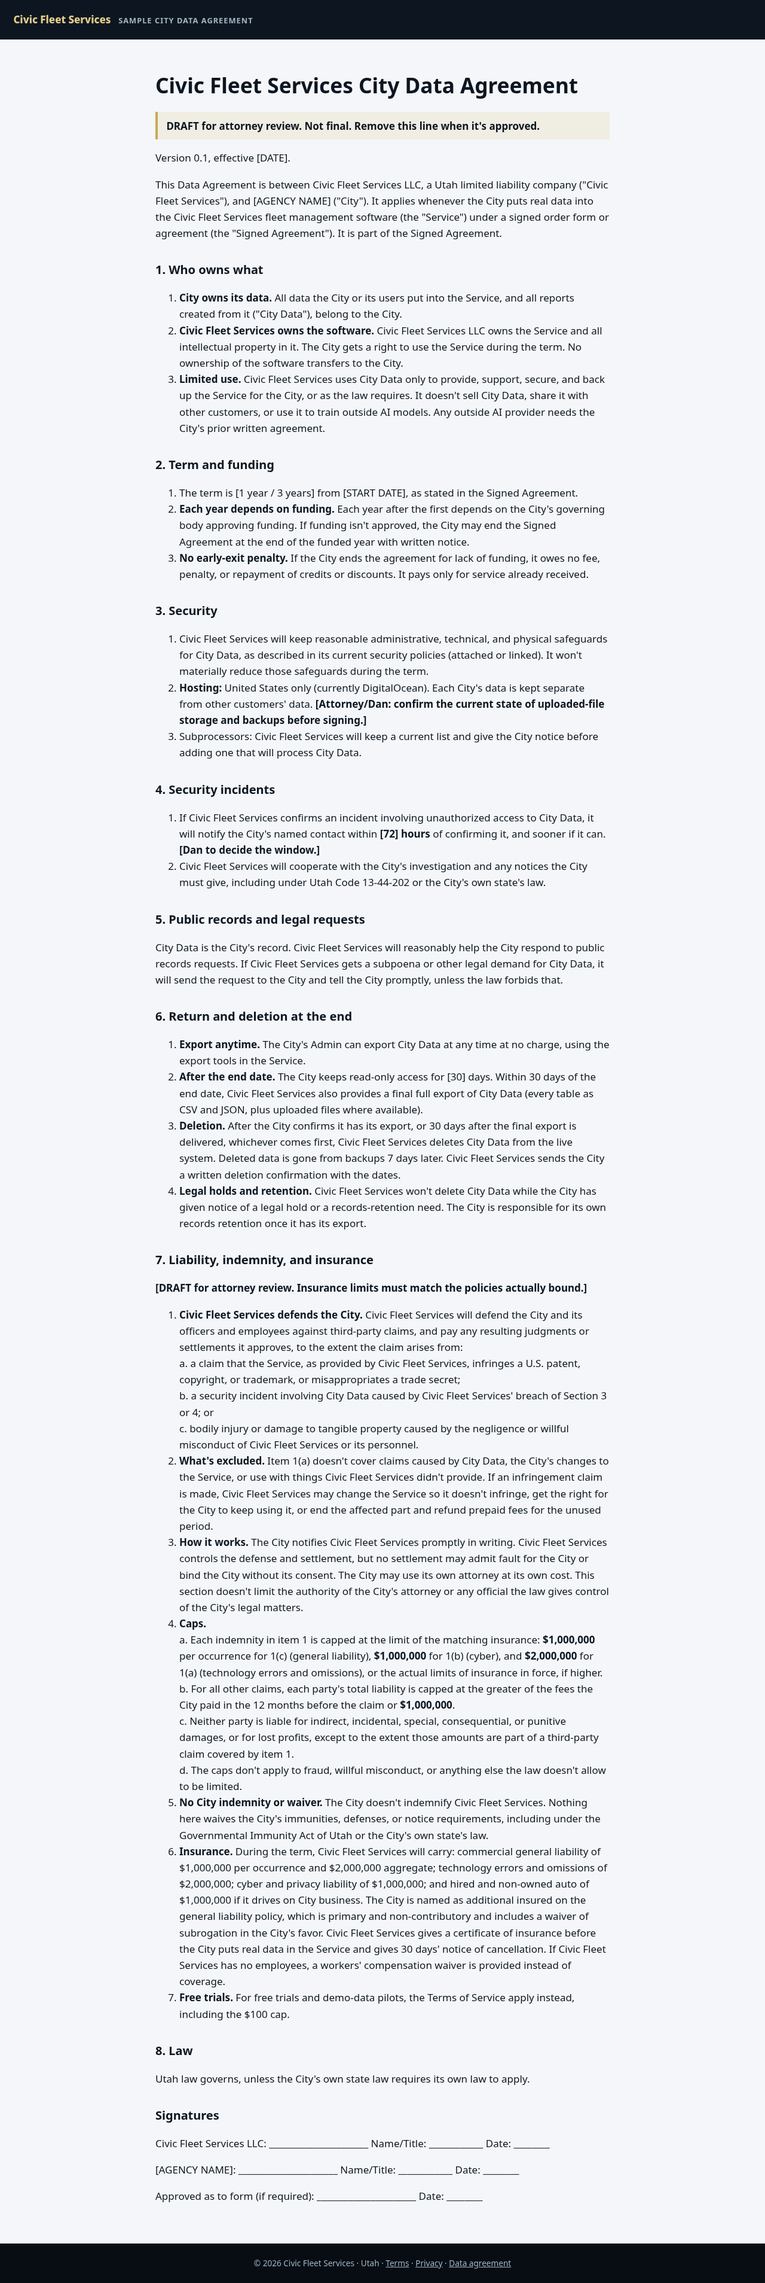
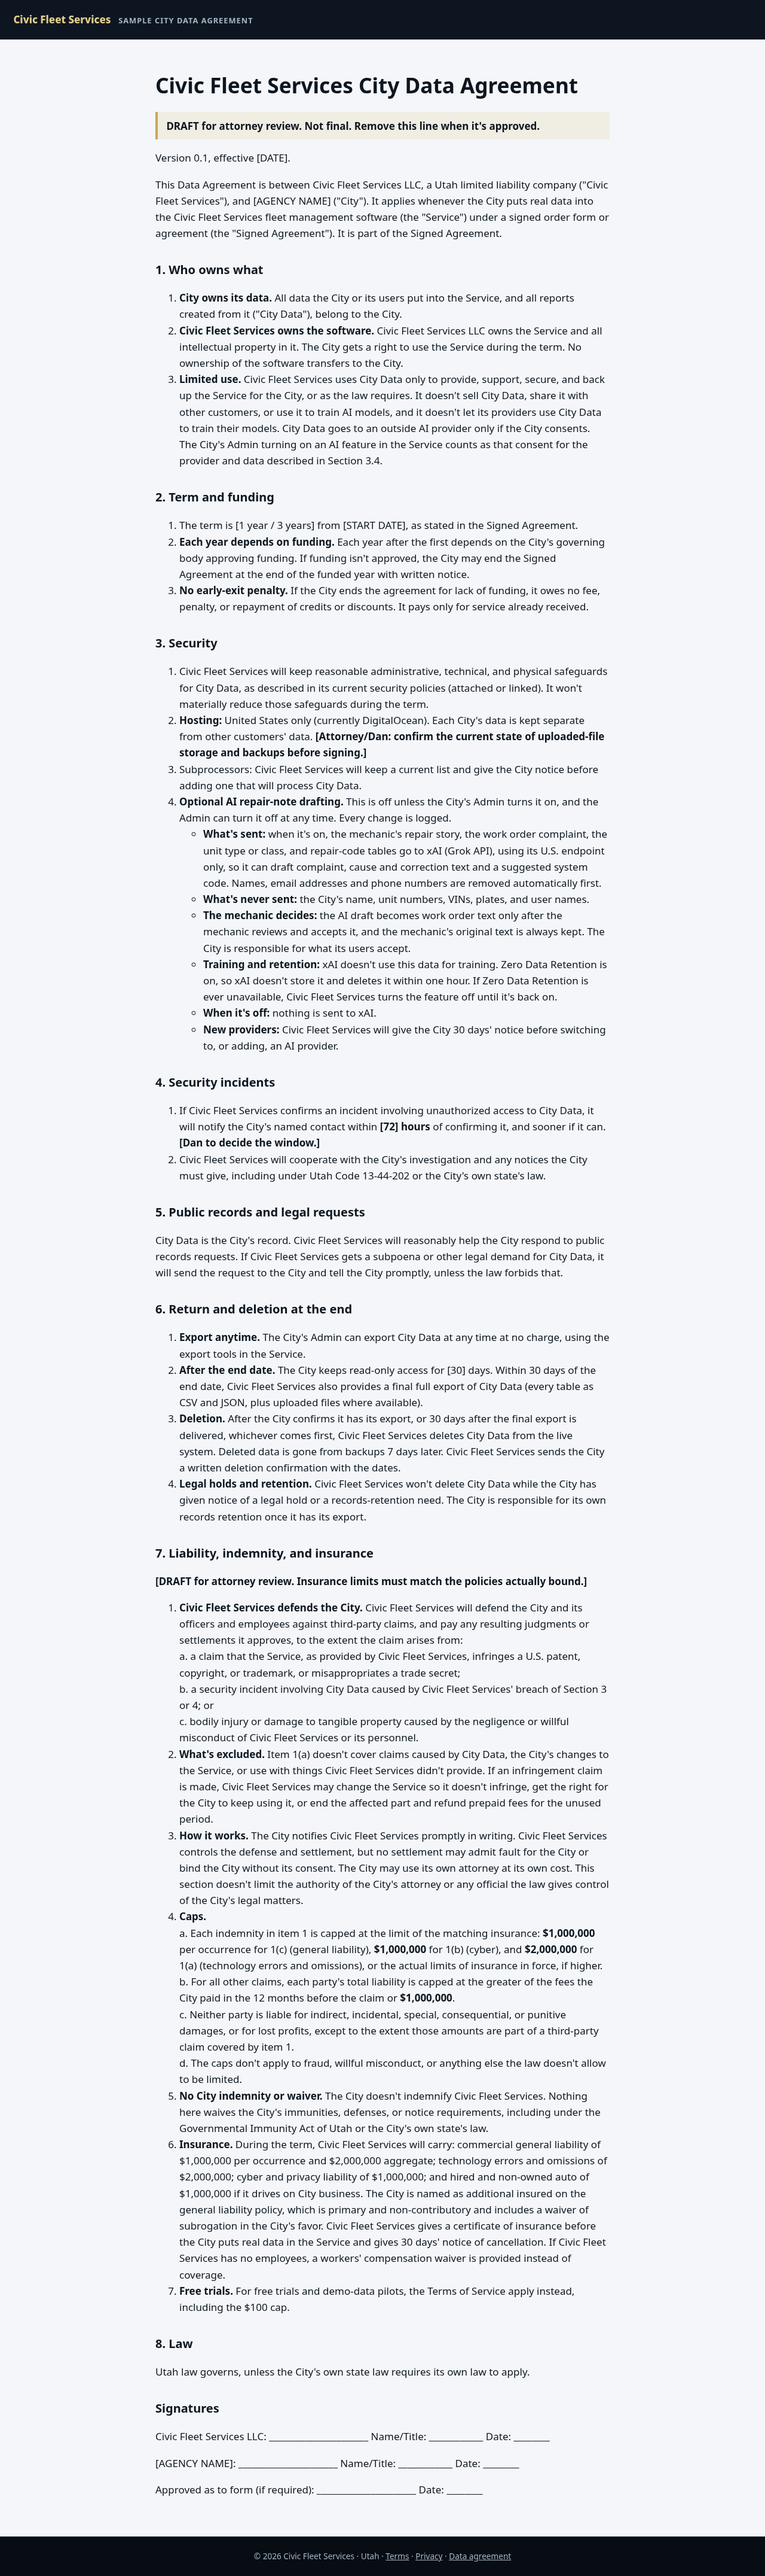
Data agreement: re-render latest Saul draft (1.3 rewritten, new 3.4 AI repair-note drafting via xAI); nest 3.4 sub-items

Changed region(s): [[0.0, 0.0, 0.7812, 0.9979]]

diff --git a/data-agreement/index.html b/data-agreement/index.html
@@ -22,7 +22,7 @@ footer{background:#070d13;color:#a3b4c4;text-align:center;padding:1.4rem;font-si
 <ol>
 <li><strong>City owns its data.</strong> All data the City or its users put into the Service, and all reports created from it ("City Data"), belong to the City.</li>
 <li><strong>Civic Fleet Services owns the software.</strong> Civic Fleet Services LLC owns the Service and all intellectual property in it. The City gets a right to use the Service during the term. No ownership of the software transfers to the City.</li>
-<li><strong>Limited use.</strong> Civic Fleet Services uses City Data only to provide, support, secure, and back up the Service for the City, or as the law requires. It doesn't sell City Data, share it with other customers, or use it to train outside AI models. Any outside AI provider needs the City's prior written agreement.</li>
+<li><strong>Limited use.</strong> Civic Fleet Services uses City Data only to provide, support, secure, and back up the Service for the City, or as the law requires. It doesn't sell City Data, share it with other customers, or use it to train AI models, and it doesn't let its providers use City Data to train their models. City Data goes to an outside AI provider only if the City consents. The City's Admin turning on an AI feature in the Service counts as that consent for the provider and data described in Section 3.4.</li>
 </ol>
 <h2>2. Term and funding</h2>
 <ol>
@@ -35,6 +35,15 @@ footer{background:#070d13;color:#a3b4c4;text-align:center;padding:1.4rem;font-si
 <li>Civic Fleet Services will keep reasonable administrative, technical, and physical safeguards for City Data, as described in its current security policies (attached or linked). It won't materially reduce those safeguards during the term.</li>
 <li><strong>Hosting:</strong> United States only (currently DigitalOcean). Each City's data is kept separate from other customers' data. <strong>[Attorney/Dan: confirm the current state of uploaded-file storage and backups before signing.]</strong></li>
 <li>Subprocessors: Civic Fleet Services will keep a current list and give the City notice before adding one that will process City Data.</li>
+<li><strong>Optional AI repair-note drafting.</strong> This is off unless the City's Admin turns it on, and the Admin can turn it off at any time. Every change is logged.<ul>
+<li><strong>What's sent:</strong> when it's on, the mechanic's repair story, the work order complaint, the unit type or class, and repair-code tables go to xAI (Grok API), using its U.S. endpoint only, so it can draft complaint, cause and correction text and a suggested system code. Names, email addresses and phone numbers are removed automatically first.</li>
+<li><strong>What's never sent:</strong> the City's name, unit numbers, VINs, plates, and user names.</li>
+<li><strong>The mechanic decides:</strong> the AI draft becomes work order text only after the mechanic reviews and accepts it, and the mechanic's original text is always kept. The City is responsible for what its users accept.</li>
+<li><strong>Training and retention:</strong> xAI doesn't use this data for training. Zero Data Retention is on, so xAI doesn't store it and deletes it within one hour. If Zero Data Retention is ever unavailable, Civic Fleet Services turns the feature off until it's back on.</li>
+<li><strong>When it's off:</strong> nothing is sent to xAI.</li>
+<li><strong>New providers:</strong> Civic Fleet Services will give the City 30 days' notice before switching to, or adding, an AI provider.</li>
+</ul>
+</li>
 </ol>
 <h2>4. Security incidents</h2>
 <ol>
